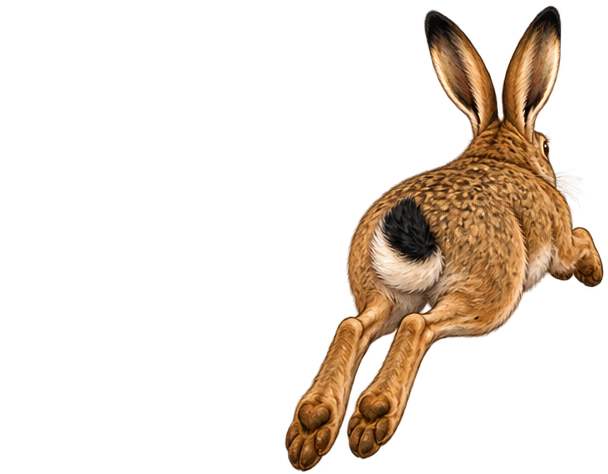
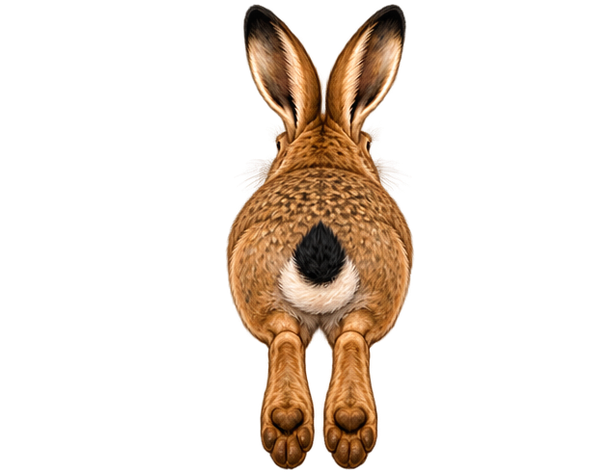
Add files via upload

diff --git a/index.html b/index.html
@@ -1,4 +1,4 @@
 <!doctype html>
 <html lang="de"><head><meta charset="utf-8"><meta name="viewport" content="width=device-width,initial-scale=1,viewport-fit=cover,user-scalable=no"><meta name="theme-color" content="#c9a56b"><title>Schauenburg – Die Burgschenke</title>
 <link rel="preload" as="image" href="assets/maps/terrasse.jpg" fetchpriority="high"><link rel="preload" as="audio" href="assets/audio/arrival-in-ashford.mp3"><link rel="preload" as="audio" href="assets/audio/Door Open Sound.mp3"><link rel="preload" as="image" href="assets/maps/wirtschaft-innen.jpg?v=18" fetchpriority="high"><link rel="preload" as="image" href="assets/npc/frau-run-1.png?v=02"><link rel="preload" as="image" href="assets/npc/frau-run-2.png?v=02"><link rel="preload" as="image" href="assets/npc/baer-run-1.png?v=22"><link rel="preload" as="image" href="assets/npc/baer-run-2.png?v=22"><link rel="preload" as="image" href="assets/npc/baer-run-3.png?v=22"><link rel="preload" as="audio" href="assets/audio/girlyscream_01.mp3"><link rel="preload" as="audio" href="assets/audio/bearattack_1.mp3"><link rel="preload" as="audio" href="assets/audio/bearattack_2.mp3"><link rel="preload" as="audio" href="assets/audio/bearattack_3.mp3"><link rel="preload" as="audio" href="assets/audio/The Hold Steady - The Bear and the Maiden Fair.mp3"><link rel="preload" as="audio" href="assets/audio/Der Bock geht um.mp3"><link rel="preload" as="audio" href="assets/audio/bock-departure.mp3"><link rel="preload" as="audio" href="assets/audio/bock-drink.mp3"><link rel="preload" as="audio" href="assets/audio/bock-burp.mp3"><link rel="preload" as="image" href="assets/npc/bock-reiter-1.png?v=28"><link rel="preload" as="image" href="assets/npc/bock-reiter-2.png?v=28"><link rel="preload" as="image" href="assets/npc/bock-reiter-3.png?v=28"><link rel="preload" as="image" href="assets/npc/bock-stop.png?v=30"><link rel="preload" as="image" href="assets/npc/bock-dismount.png?v=30"><link rel="preload" as="image" href="assets/npc/bock-final.png?v=30"><link rel="preload" as="image" href="assets/npc/bock-wunsch.png?v=38"><link rel="preload" as="image" href="assets/npc/bock-bier.png?v=38"><link rel="preload" as="image" href="assets/npc/bock-trinkt.png?v=38"><link rel="preload" as="image" href="assets/npc/bock-krug-leer.png?v=38"><link rel="preload" as="image" href="assets/player/tisch-w.png?v=47"><link rel="preload" as="image" href="assets/player/tisch-s.png?v=47"><link rel="preload" as="image" href="assets/player/tisch-d.png?v=46"><link rel="preload" as="image" href="assets/player/tisch-a.png?v=46"><link rel="preload" as="image" href="assets/npc/baum-versteck.png?v=01"><link rel="preload" as="image" href="assets/player/nobier-front-1.png?v=69" fetchpriority="high"><link rel="preload" as="image" href="assets/player/nobier-front-2.png?v=69" fetchpriority="high"><link rel="preload" as="image" href="assets/player/nobier-front-3.png?v=69" fetchpriority="high"><link rel="preload" as="image" href="assets/player/nobier-front-4.png?v=69" fetchpriority="high"><link rel="preload" as="image" href="assets/player/nobier-back-1.png?v=69" fetchpriority="high"><link rel="preload" as="image" href="assets/player/nobier-back-2.png?v=69" fetchpriority="high"><link rel="preload" as="image" href="assets/player/nobier-back-3.png?v=69" fetchpriority="high"><link rel="preload" as="image" href="assets/player/nobier-back-4.png?v=69" fetchpriority="high"><link rel="preload" as="image" href="assets/player/nobier-side-1.png?v=69" fetchpriority="high"><link rel="preload" as="image" href="assets/player/nobier-side-2.png?v=69" fetchpriority="high"><link rel="preload" as="image" href="assets/player/nobier-side-3.png?v=69" fetchpriority="high"><link rel="preload" as="audio" href="assets/audio/Human whistle (singing) - sound effect.mp3"><link rel="preload" as="audio" href="assets/audio/swdth_04_converted_by_soundandgo.com_.mp3"><link rel="preload" as="audio" href="assets/audio/whinny_m_01_converted_by_soundandgo.com_.mp3"><link rel="preload" as="audio" href="assets/audio/trot_sing_01_converted_by_soundandgo.com_.mp3"><link rel="preload" as="image" href="assets/npc/event3-bock-attack-ready.png?v=71"><link rel="preload" as="image" href="assets/npc/event3-bock-slash.png?v=71"><link rel="preload" as="image" href="assets/npc/event3-bauer-walk.png?v=71"><link rel="preload" as="image" href="assets/npc/event3-bauer-kneel.png?v=71"><link rel="preload" as="image" href="assets/npc/event3-bauer-dead.png?v=71"><link rel="preload" as="image" href="assets/npc/schreiber-1.png?v=76"><link rel="preload" as="image" href="assets/npc/schreiber-2.png?v=76"><link rel="preload" as="image" href="assets/npc/schreiber-3.png?v=76"><link rel="preload" as="image" href="assets/npc/schreiber-4.png?v=77"><link rel="preload" as="image" href="assets/npc/schreiber-5.png?v=77"><link rel="preload" as="audio" href="assets/audio/puller_impact_converted_by_soundandgo.com_.mp3"><link rel="preload" as="audio" href="assets/audio/harvest_01_converted_by_soundandgo.com_.mp3"><link rel="preload" as="audio" href="assets/audio/cauldron_01_converted_by_soundandgo.com_.mp3"><link rel="preload" as="image" href="assets/npc/schreiber-6.png?v=79"><link rel="preload" as="image" href="assets/npc/schreiber-gameover.png?v=81"><link rel="preload" as="audio" href="assets/audio/General_Warning2_converted_by_soundandgo.com_ (1).mp3"><link rel="preload" as="audio" href="assets/audio/Pop_Popularity5_converted_by_soundandgo.com_(1).mp3"><link rel="preload" as="audio" href="assets/audio/Pop_Emigrate_converted_by_soundandgo.com_.mp3"><link rel="preload" as="audio" href="assets/audio/Pop_Popularity7_converted_by_soundandgo.com_ (1).mp3"><link rel="preload" as="audio" href="assets/audio/Pop_Popularity8_converted_by_soundandgo.com_.mp3"><link rel="preload" as="audio" href="assets/audio/Pop_Immigrate_converted_by_soundandgo.com_(1).mp3"><link rel="preload" as="audio" href="assets/audio/Pop_Popularity4_converted_by_soundandgo.com_.mp3"><link rel="preload" as="audio" href="assets/audio/Pop_Popularity3_converted_by_soundandgo.com_(1).mp3"><link rel="preload" as="audio" href="assets/audio/Pop_Popularity2_converted_by_soundandgo.com_ (1).mp3"><link rel="preload" as="audio" href="assets/audio/Pop_Popularity1_converted_by_soundandgo.com_ (2).mp3"><link rel="preload" as="audio" href="assets/audio/Pints a Flowin.mp3"><link rel="preload" as="image" href="assets/npc/kalif-1.png?v=82"><link rel="preload" as="image" href="assets/npc/kalif-2.png?v=82"><link rel="preload" as="image" href="assets/npc/kalif-3.png?v=82"><link rel="preload" as="image" href="assets/npc/kalif-7.png?v=82"><link rel="preload" as="image" href="assets/npc/kalif-8.png?v=82"><link rel="preload" as="audio" href="assets/audio/firepop7_converted_by_soundandgo.com_.mp3"><link rel="preload" as="audio" href="assets/audio/Stronghold Crusader Soundtrack - 03 Crusader.mp3"><link rel="preload" as="audio" href="assets/audio/ca_extra_01_converted_by_soundandgo.com_ (1).mp3"><link rel="preload" as="image" href="assets/npc/event5-kalif-fire.png?v=87"><link rel="preload" as="image" href="assets/npc/event5-bauer-fire.png?v=87"><link rel="preload" as="audio" href="assets/audio/event5-flame.mp3"><link rel="preload" as="audio" href="assets/audio/event5-scream.mp3"><link rel="preload" as="audio" href="assets/audio/event5-burn-loop.mp3"><link rel="preload" as="image" href="assets/npc/gast-bauer-front-1.png?v=92"><link rel="preload" as="image" href="assets/npc/gast-bauer-front-2.png?v=92"><link rel="preload" as="image" href="assets/npc/gast-bauer-front-3.png?v=92"><link rel="preload" as="image" href="assets/npc/gast-bauer-order-1.png?v=92"><link rel="preload" as="image" href="assets/npc/gast-bauer-order-2.png?v=92"><link rel="preload" as="image" href="assets/npc/gast-bauer-order-3.png?v=92"><link rel="preload" as="image" href="assets/npc/gast-bauer-back-1.png?v=92"><link rel="preload" as="image" href="assets/npc/gast-bauer-back-2.png?v=92"><link rel="preload" as="image" href="assets/npc/gast-bauer-back-3.png?v=92"><link rel="preload" as="image" href="assets/npc/gast-krug-leer.png?v=92"><link rel="preload" as="image" href="assets/npc/gast-frau-walk-1.png?v=95"><link rel="preload" as="image" href="assets/npc/gast-frau-walk-2.png?v=95"><link rel="preload" as="image" href="assets/npc/gast-frau-walk-3.png?v=95"><link rel="preload" as="image" href="assets/npc/gast-frau-walk-4.png?v=95"><link rel="preload" as="image" href="assets/npc/gast-frau-order-1.png?v=95"><link rel="preload" as="image" href="assets/npc/gast-frau-order-2.png?v=95"><link rel="preload" as="image" href="assets/npc/gast-frau-order-3.png?v=95"><link rel="preload" as="image" href="assets/npc/gast-emotion-gruen.png?v=98"><link rel="preload" as="image" href="assets/npc/gast-emotion-gelb.png?v=98"><link rel="preload" as="image" href="assets/npc/gast-emotion-rot.png?v=98"><link rel="stylesheet" href="style.css?v=12"><link rel="preload" as="audio" href="assets/audio/apfelbaum-ruetteln-1.mp3?v=113"><link rel="preload" as="audio" href="assets/audio/apfelbaum-ruetteln-2.mp3?v=113"><link rel="preload" as="audio" href="assets/audio/apfelbaum-ruetteln-3.mp3?v=113"><link rel="preload" as="audio" href="assets/audio/apfelbaum-ruetteln-4.mp3?v=113"><link rel="preload" as="audio" href="assets/audio/kroete-aufsammeln.mp3?v=113"><link rel="preload" as="audio" href="assets/audio/geld-1.mp3?v=114"><link rel="preload" as="audio" href="assets/audio/geld-2.mp3?v=114"><link rel="preload" as="audio" href="assets/audio/geld-3.mp3?v=114"><link rel="preload" as="audio" href="assets/audio/apfelbaum-zusatz.mp3?v=115"><link rel="preload" as="audio" href="assets/audio/philipp-ankunft.mp3?v=116"><link rel="preload" as="audio" href="assets/audio/philipp-gruss.mp3?v=116"><link rel="preload" as="audio" href="assets/audio/philipp-aufstehen.mp3?v=117"><link rel="preload" as="audio" href="assets/audio/player-fight.mp3?v=123"></head>
-<body><main id="game" aria-label="Schauenburg – Die Burgschenke"><div id="world"><img id="map" src="assets/maps/terrasse.jpg" alt="Terrasse der Burgschenke" draggable="false"><img class="prop no-collision" id="baum" src="assets/props/baum.png?v=03" alt="" draggable="false"><img class="prop collidable" id="wirtschaft" src="assets/props/wirtschaft.png?v=03" alt="" draggable="false" data-collision="alpha"><img class="prop collidable" id="stehtischLinks" src="assets/props/stehtisch.png?v=03" alt="" draggable="false" data-collision="alpha"><img class="prop collidable" id="stehtischMitte" src="assets/props/stehtisch.png?v=03" alt="" draggable="false" data-collision="alpha"><img class="prop collidable" id="stehtischRechts" src="assets/props/stehtisch.png?v=03" alt="" draggable="false" data-collision="alpha"><img class="prop collidable" id="stuhl" src="assets/props/stuhl.png?v=03" alt="" draggable="false" data-collision="alpha"><img class="prop collidable" id="tafel" src="assets/props/tafel.png?v=03" alt="" draggable="false" data-collision="alpha"><img class="prop collidable" id="apfelbaum" src="assets/props/apfelbaum.png?v=106" alt="" draggable="false" data-collision="alpha" style="position:absolute;left:326px;top:2px;width:210px;height:192px;max-width:none;transform:none;z-index:490;pointer-events:none"><img class="prop collidable" id="teich" src="assets/props/teich.png?v=108" alt="" draggable="false" data-collision="alpha" style="position:absolute;left:318px;top:789px;width:395px;height:252px;max-width:none;transform:none;z-index:490;pointer-events:none"><img id="player" src="assets/player/nobier-front-1.png?v=69" alt="" draggable="false"></div><audio id="bgMusic" src="assets/audio/arrival-in-ashford.mp3" preload="auto" loop></audio><div id="loading">DIE BURGSCHENKE WIRD GEÖFFNET …</div><div id="irisTransition" aria-hidden="true"></div></main><script src="game.js?v=134"></script></body></html>
+<body><main id="game" aria-label="Schauenburg – Die Burgschenke"><div id="world"><img id="map" src="assets/maps/terrasse.jpg" alt="Terrasse der Burgschenke" draggable="false"><img class="prop no-collision" id="baum" src="assets/props/baum.png?v=03" alt="" draggable="false"><img class="prop collidable" id="wirtschaft" src="assets/props/wirtschaft.png?v=03" alt="" draggable="false" data-collision="alpha"><img class="prop collidable" id="stehtischLinks" src="assets/props/stehtisch.png?v=03" alt="" draggable="false" data-collision="alpha"><img class="prop collidable" id="stehtischMitte" src="assets/props/stehtisch.png?v=03" alt="" draggable="false" data-collision="alpha"><img class="prop collidable" id="stehtischRechts" src="assets/props/stehtisch.png?v=03" alt="" draggable="false" data-collision="alpha"><img class="prop collidable" id="stuhl" src="assets/props/stuhl.png?v=03" alt="" draggable="false" data-collision="alpha"><img class="prop collidable" id="tafel" src="assets/props/tafel.png?v=03" alt="" draggable="false" data-collision="alpha"><img class="prop collidable" id="apfelbaum" src="assets/props/apfelbaum.png?v=106" alt="" draggable="false" data-collision="alpha" style="position:absolute;left:326px;top:2px;width:210px;height:192px;max-width:none;transform:none;z-index:490;pointer-events:none"><img class="prop collidable" id="teich" src="assets/props/teich.png?v=108" alt="" draggable="false" data-collision="alpha" style="position:absolute;left:318px;top:789px;width:395px;height:252px;max-width:none;transform:none;z-index:490;pointer-events:none"><img id="player" src="assets/player/nobier-front-1.png?v=69" alt="" draggable="false"></div><audio id="bgMusic" src="assets/audio/arrival-in-ashford.mp3" preload="auto" loop></audio><div id="loading">DIE BURGSCHENKE WIRD GEÖFFNET …</div><div id="irisTransition" aria-hidden="true"></div></main><script src="game.js?v=135"></script></body></html>

diff --git a/game.js b/game.js
@@ -2319,7 +2319,7 @@ function crossbowHitLiveToad(b,distance,now){
 }
 
 /* v132: einmal je 30-s-Fenster, Zufallszeit und unabhängige 50/50-Laufrichtung. */
-const MAP1_HARE_IMAGES={back:[3,2].map(n=>`assets/npc/hase-back-${n}.png?v=132`),front:[1,3].map(n=>`assets/npc/hase-front-${n}.png?v=132`)};
+const MAP1_HARE_IMAGES={back:[1,2,3].map(n=>`assets/npc/hase-back-${n}.png?v=135`),front:[1,2,3].map(n=>`assets/npc/hase-front-${n}.png?v=135`)};
 // Referenz: Map x=159..1761, rote Linie (1619,357)..(1616,1070).
 // Der untere Endpunkt liegt außerhalb der Map, damit der ganze Hase aus dem Bild läuft.
 const MAP1_HARE_TOP=[1398.98,342.32],MAP1_HARE_BOTTOM=[1395.86,1080];
@@ -2356,9 +2356,8 @@ function updateMap1Hare(now){
   if(age<0){map1Hare.style.display='none';return;}
   const t=Math.min(1,age/MAP1_HARE_RUN_MS),u=e.fromTop?t:1-t;
   const x=MAP1_HARE_TOP[0]+(MAP1_HARE_BOTTOM[0]-MAP1_HARE_TOP[0])*u,y=MAP1_HARE_TOP[1]+(MAP1_HARE_BOTTOM[1]-MAP1_HARE_TOP[1])*u;
-  let direction=e.fromTop?'front':'back',index=Math.floor(age/MAP1_HARE_FRAME_MS)%2,opacity=e.fromTop?Math.min(1,age/120):1;
-  // Aufwärts: 3, 2, 3, gespiegelte 2; abwärts unverändert 1, 3.
-  const mirror=!e.fromTop&&t<1&&Math.floor(age/MAP1_HARE_FRAME_MS)%4===3?-1:1;
+  let direction=e.fromTop?'front':'back',index=[0,1,2,1][Math.floor(age/MAP1_HARE_FRAME_MS)%4],opacity=e.fromTop?Math.min(1,age/120):1;
+  // Beide Richtungen: neue Bilder 1, 2, 3, 2; keine Spiegelung.
   if(!e.fromTop&&t===1){
     index=1;
     if(!e.forestDone){e.forestDone=true;map1HareForestEffect();}
@@ -2368,7 +2367,7 @@ function updateMap1Hare(now){
   const src=MAP1_HARE_IMAGES[direction][index],img=EVENT_IMAGE_CACHE.get(src);
   if(!img?.naturalWidth){map1Hare.style.display='none';return;}
   if(map1Hare.getAttribute('src')!==src)map1Hare.src=src;
-  Object.assign(map1Hare.style,{display:currentMap===1?'block':'none',left:`${x}px`,top:`${y}px`,width:`${44*img.naturalWidth/img.naturalHeight}px`,transform:e.fromTop?'translate(-50%,-100%)':`translate(-50%,-100%) scaleX(${mirror})`,opacity:String(opacity),zIndex:String((Number(player.style.zIndex)||1000)+(y>PLAYER.y?1:-1))});
+  Object.assign(map1Hare.style,{display:currentMap===1?'block':'none',left:`${x}px`,top:`${y}px`,width:`${44*img.naturalWidth/img.naturalHeight}px`,transform:'translate(-50%,-100%)',opacity:String(opacity),zIndex:String((Number(player.style.zIndex)||1000)+(y>PLAYER.y?1:-1))});
 }
 
 function ensureMap1Toad(){
